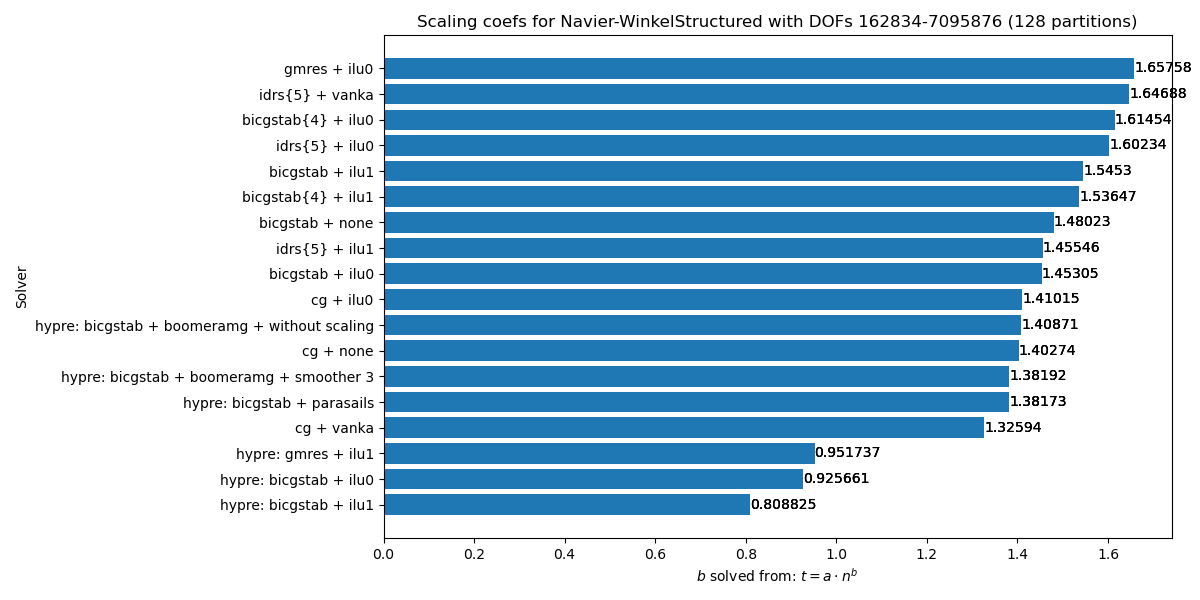
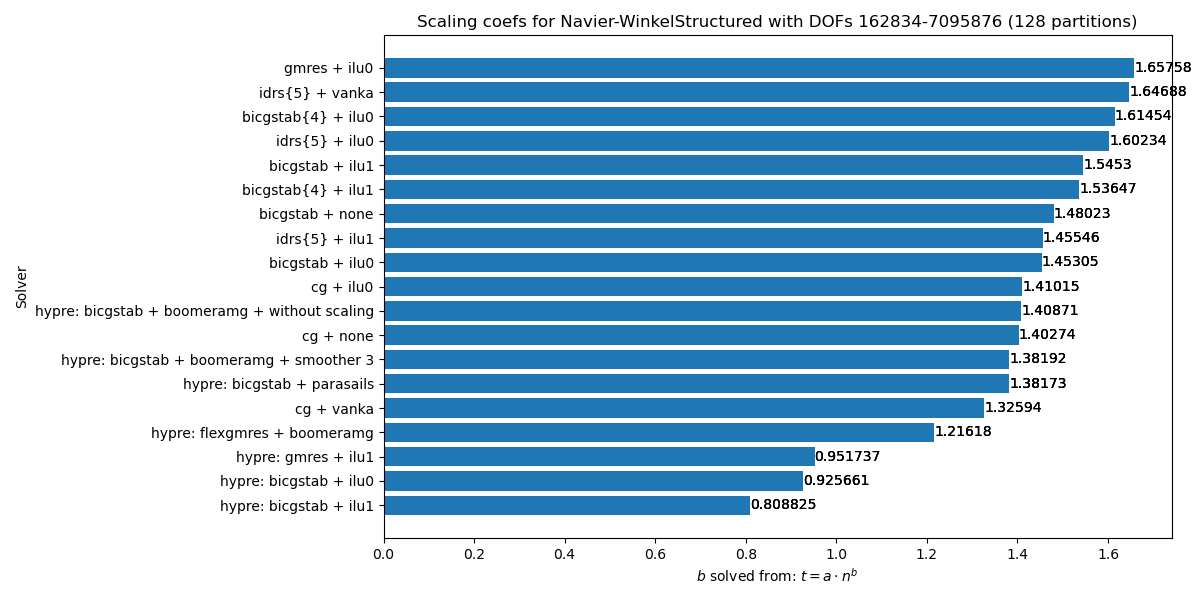
Analysis for Navier problem(s) added

Changed region(s): [[0.0308, 0.12, 0.9867, 0.84], [0.185, 0.84, 0.2775, 0.87], [0.2467, 0.09, 0.3083, 0.12]]

diff --git a/results/Navier-WinkelStructured/README.md b/results/Navier-WinkelStructured/README.md
@@ -1,43 +1,42 @@
 # Navier problem on structured Winkel geometry
 
-
 ![Problem Visualization](https://github.com/ElmerCSC/elmer-linsys/blob/main/results/Navier-WinkelStructured/navier_winkelStructured.png?raw=true)
 
+## Problem description
 
-Linear elasticity on a simple 3D geometry provides a simple problem, but unlike the heat equation
-contains 3 degrees of freedom for each node. Thus as the mesh grows the coefficient matrix grows
-at a significantly faster rate than in the Poisson problems. This puts significant strain on the
-linear solvers and their scalability. In spite of this the coefficient matrix is symmetric and
-positive definite as CG without preconditioning converges. Sparsity structure for the problem
-can be found below.
-
+The structured Winkel geometry provides a simple (but not trivial) case study for linear elasticity problem. Thus, it is a good choice for benhmarking a variety of solvers. A very coarse mesh of the problem is visualized above. The linear elasticity problems form a symmetric and positive definite coefficient matrix meaning that (theoretically) any choice of solver should converge. But as the linear elasticity has three degrees of freedom per node, even relatively coarse meshes can form a large problem, which can lead to large differences between performances of the solvers. For those interested, an example of the sparsity structure for a characteristic matrix is visualized below.
 
 ![Sparsity Structure](https://github.com/ElmerCSC/elmer-linsys/blob/main/results/Navier-WinkelStructured/sparsity_structure.png?raw=true)
 
+## Results
 
-Looking at the scalability bar plots we see that some solvers (generally from hypre)
-have a scaling coefficient of less than 1. This shouldn't really be possible and is
-most likely caused by a proportionally significant overhead from finding the
-preconditioner in the smaller cases. The Hypre and Elmer implementations for ILU family
-of preconditioners differs in that Elmer does the preconditioning partitionwise while
-Hypre does it 'properly' with the downside that finding the preconditioner isn't fully
-parallelizable. Similarly the AMG preconditioners most likely have quite a large overhead
-due to the need for solving the coarse problem as an approximation for the fine grid solution.
-Note that as the Navier problems are by default bigger than Poisson ones (due to having 3 dofs
-per node rather than one) the scaling coefficients are generally all better behaved, apart from
-a few that are overly high.
+The benchmarks with the unstructured Winkel geometry were done with number of degrees of freedom ranging from around 160 000 to around 7 000 000 on both a single Mahti node (128 partitions) and 4 Mahti nodes (512 partitions). The runtimes can be found from picture files "runtimes_ML*.png". Runtimes for the smallest and largest runs on a single Mahti node are visualized below.
 
-Looking at the runtimes for smaller cases it appears that FETI solvers and GCR perform very well.
-These are block based methods, which clearly can utilize the structure of the coefficient matrix
-efficiently. However, with standard mesh multiplication the convergence of these methods is poor,
-which is why they don't show in the barplots for larger problem sizes. It could be that if the
-increase in mesh size was done in some other way the convergence can be retained. Other well
-performing solvers are the IDRS family of solvers as well as standard CG. As the problem size
-increases Hypres solvers become comparatively better, but in the scales studied aren't contenders
-against IDRS or CG implementations.
+![Runtimes small](https://github.com/ElmerCSC/elmer-linsys/blob/main/results/Navier-WinkelStructured/runtimes_ML1.png?raw=true)
+![Runtimes large](https://github.com/ElmerCSC/elmer-linsys/blob/main/results/Navier-WinkelStructured/runtimes_ML3.png?raw=true)
 
-Thus generally a good choice seems to be IDRS5 with ILU0 or CG with ILU0 preconditioning independent
-of the problem size, but further research is required.
+Indeed, as predicted the variability in both the small and the large cases are quite large (around 100 fold). To study the cause of this the scalability coefficients for both the single node and the 4 node runs are plotted below.
 
+![Scalability single node](https://github.com/ElmerCSC/elmer-linsys/blob/main/results/Navier-WinkelStructured/scalability_bar_ML1-3.png?raw=true)
+![Scalability 4 nodes](https://github.com/ElmerCSC/elmer-linsys/blob/main/results/Navier-WinkelStructured/scalability_bar_ML1-3_P512.png?raw=true)
 
+## Conclusions
 
+Generally, it would seem that in smaller cases the hypre implementations are significantly slower and not recommended. Indeed, a somewhat suprising set of solvers, in FETI (finite element tearing and interconnect) and GCR (Generalized Conjugate Residual) based methods, perform the best in the smaller cases. Both FETI and the block preconditioned GCR can most likely utilize the structured nature of the geometry well. However, these methods did not converge in the larger runs would indicate some underlying stability issues. Additionally, the difference is in the runtimes was quite minor when compared to e.g. the Elmer implementations of ILU(n) preconditioned Idr(s) or CG methods. Thus, overall these could be a safer yet highly perfomant choice for solvers.
+
+Another interesting note is that, most Hypre's solvers seem to have a very high overhead when solving the problems. This evident in them generally having a comaprably poor runtimes, but decent scalability. This scalability is not accurate, but in very large runs it might make some Hypre solvers like the BiCGStab with ILU preconditioning a considerable choice. Based on available data, that is still not recommendable.
+
+## Other benchmarks
+
+The support for Nvidia's AmgX library was recently added to Elmer and allows parallelizing the computations onto Nvidia GPUs. As the GPUs are by design different from CPUs the results with GPU accelerated solvers are not directly comparable to purely CPU based implementations. They can still be compared to one another and as the linear elasticity problem is relatively simple it provides a good framework for such benchmarks.
+
+Some runtimes acquired from running the case on a single Mahti GPU node with four partitions can be seen below.
+
+![Runtimes AmgX small](https://github.com/ElmerCSC/elmer-linsys/blob/main/results/Navier-WinkelStructured/runtimes_amgx_ML1.png?raw=true)
+![Runtimes AmgX large](https://github.com/ElmerCSC/elmer-linsys/blob/main/results/Navier-Structured/runtimes_amgx_ML3.png?raw=true)
+
+Based on this (very small) sample it seems that conjugate gradient with DILU (diagonally-based incomplete LU factorization) performs best. However, looking at the scalability plot below it doesn't scale best.
+
+![Scalability AmgX](https://github.com/ElmerCSC/elmer-linsys/blob/main/results/Poisson-WinkelUnstructured/scalability_bar_amgx_ML2-4.png?raw=true)
+
+Interestingly, all of the solvers seem to have a scaling coefficient of less than one. This shouldn't be possible as the ideal case scenario would be linear scaling. The reason for this odd result is most likely a very large overhead from transfering the matrices to the GPUs, which hides the comparably small solving times. This is likely most prevalent in the DILU preconditioned FGMRES method as it has by far the smallest scaling coefficient. It also had the longest runtimes, which is probably the explaining factor.
